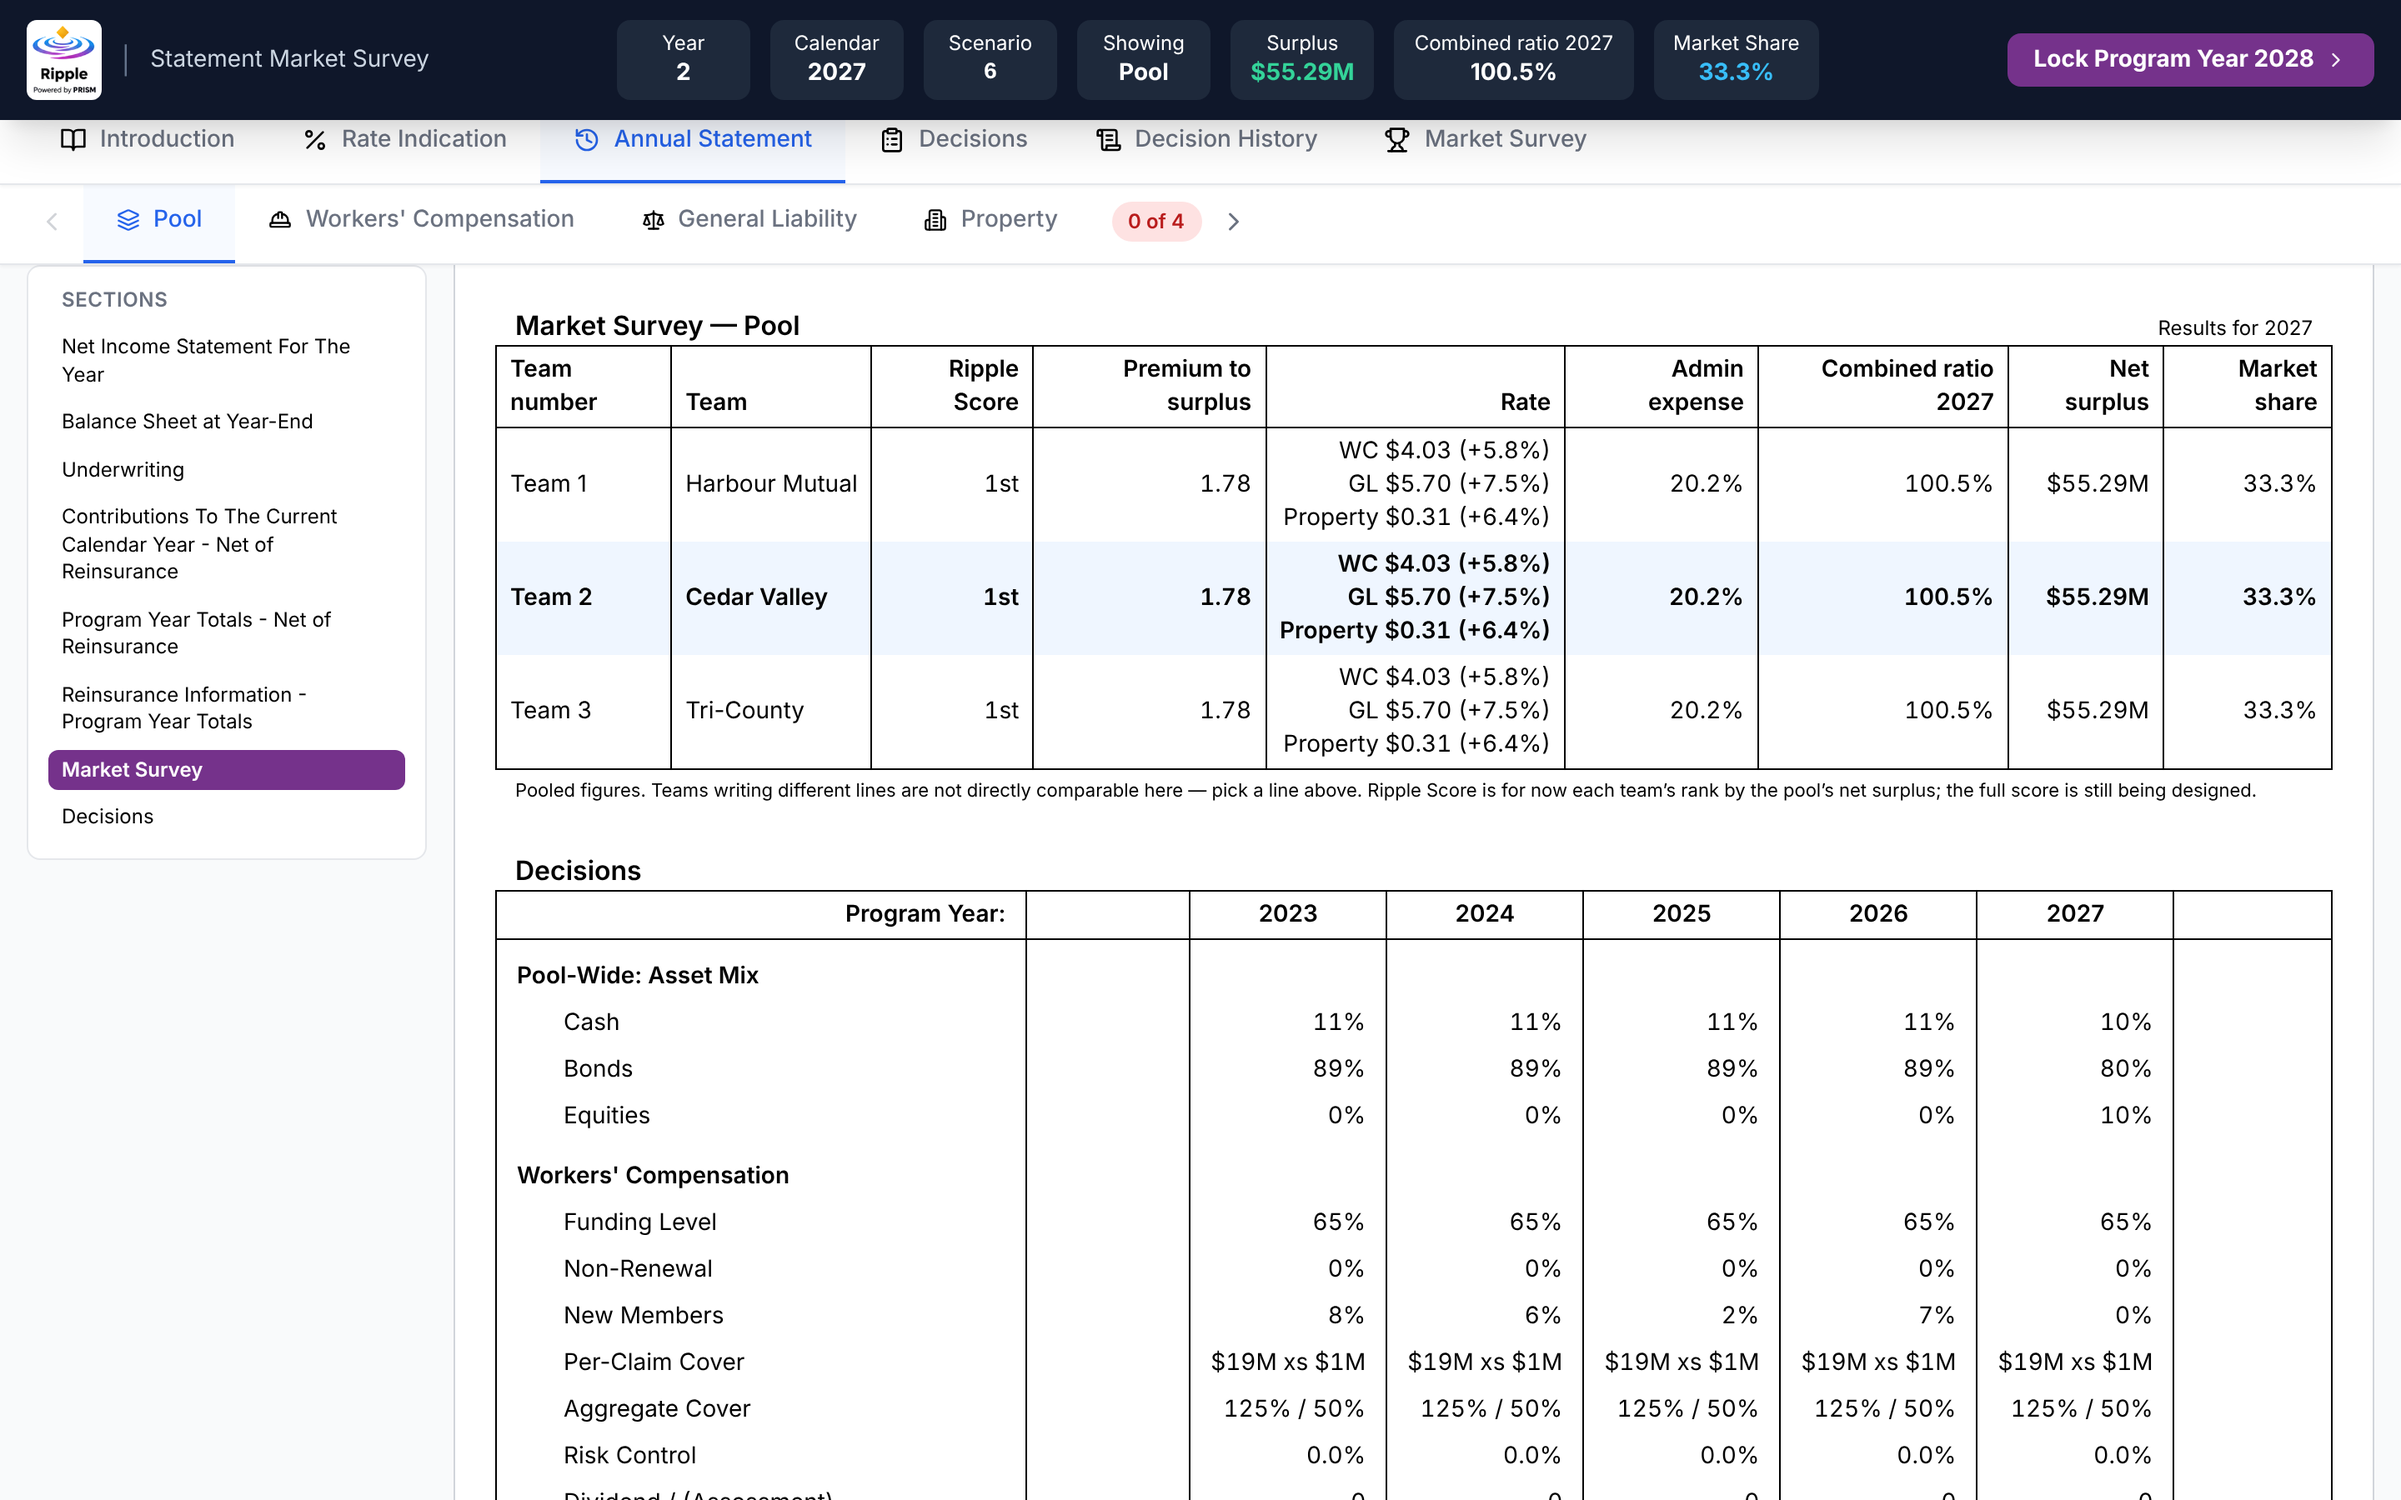
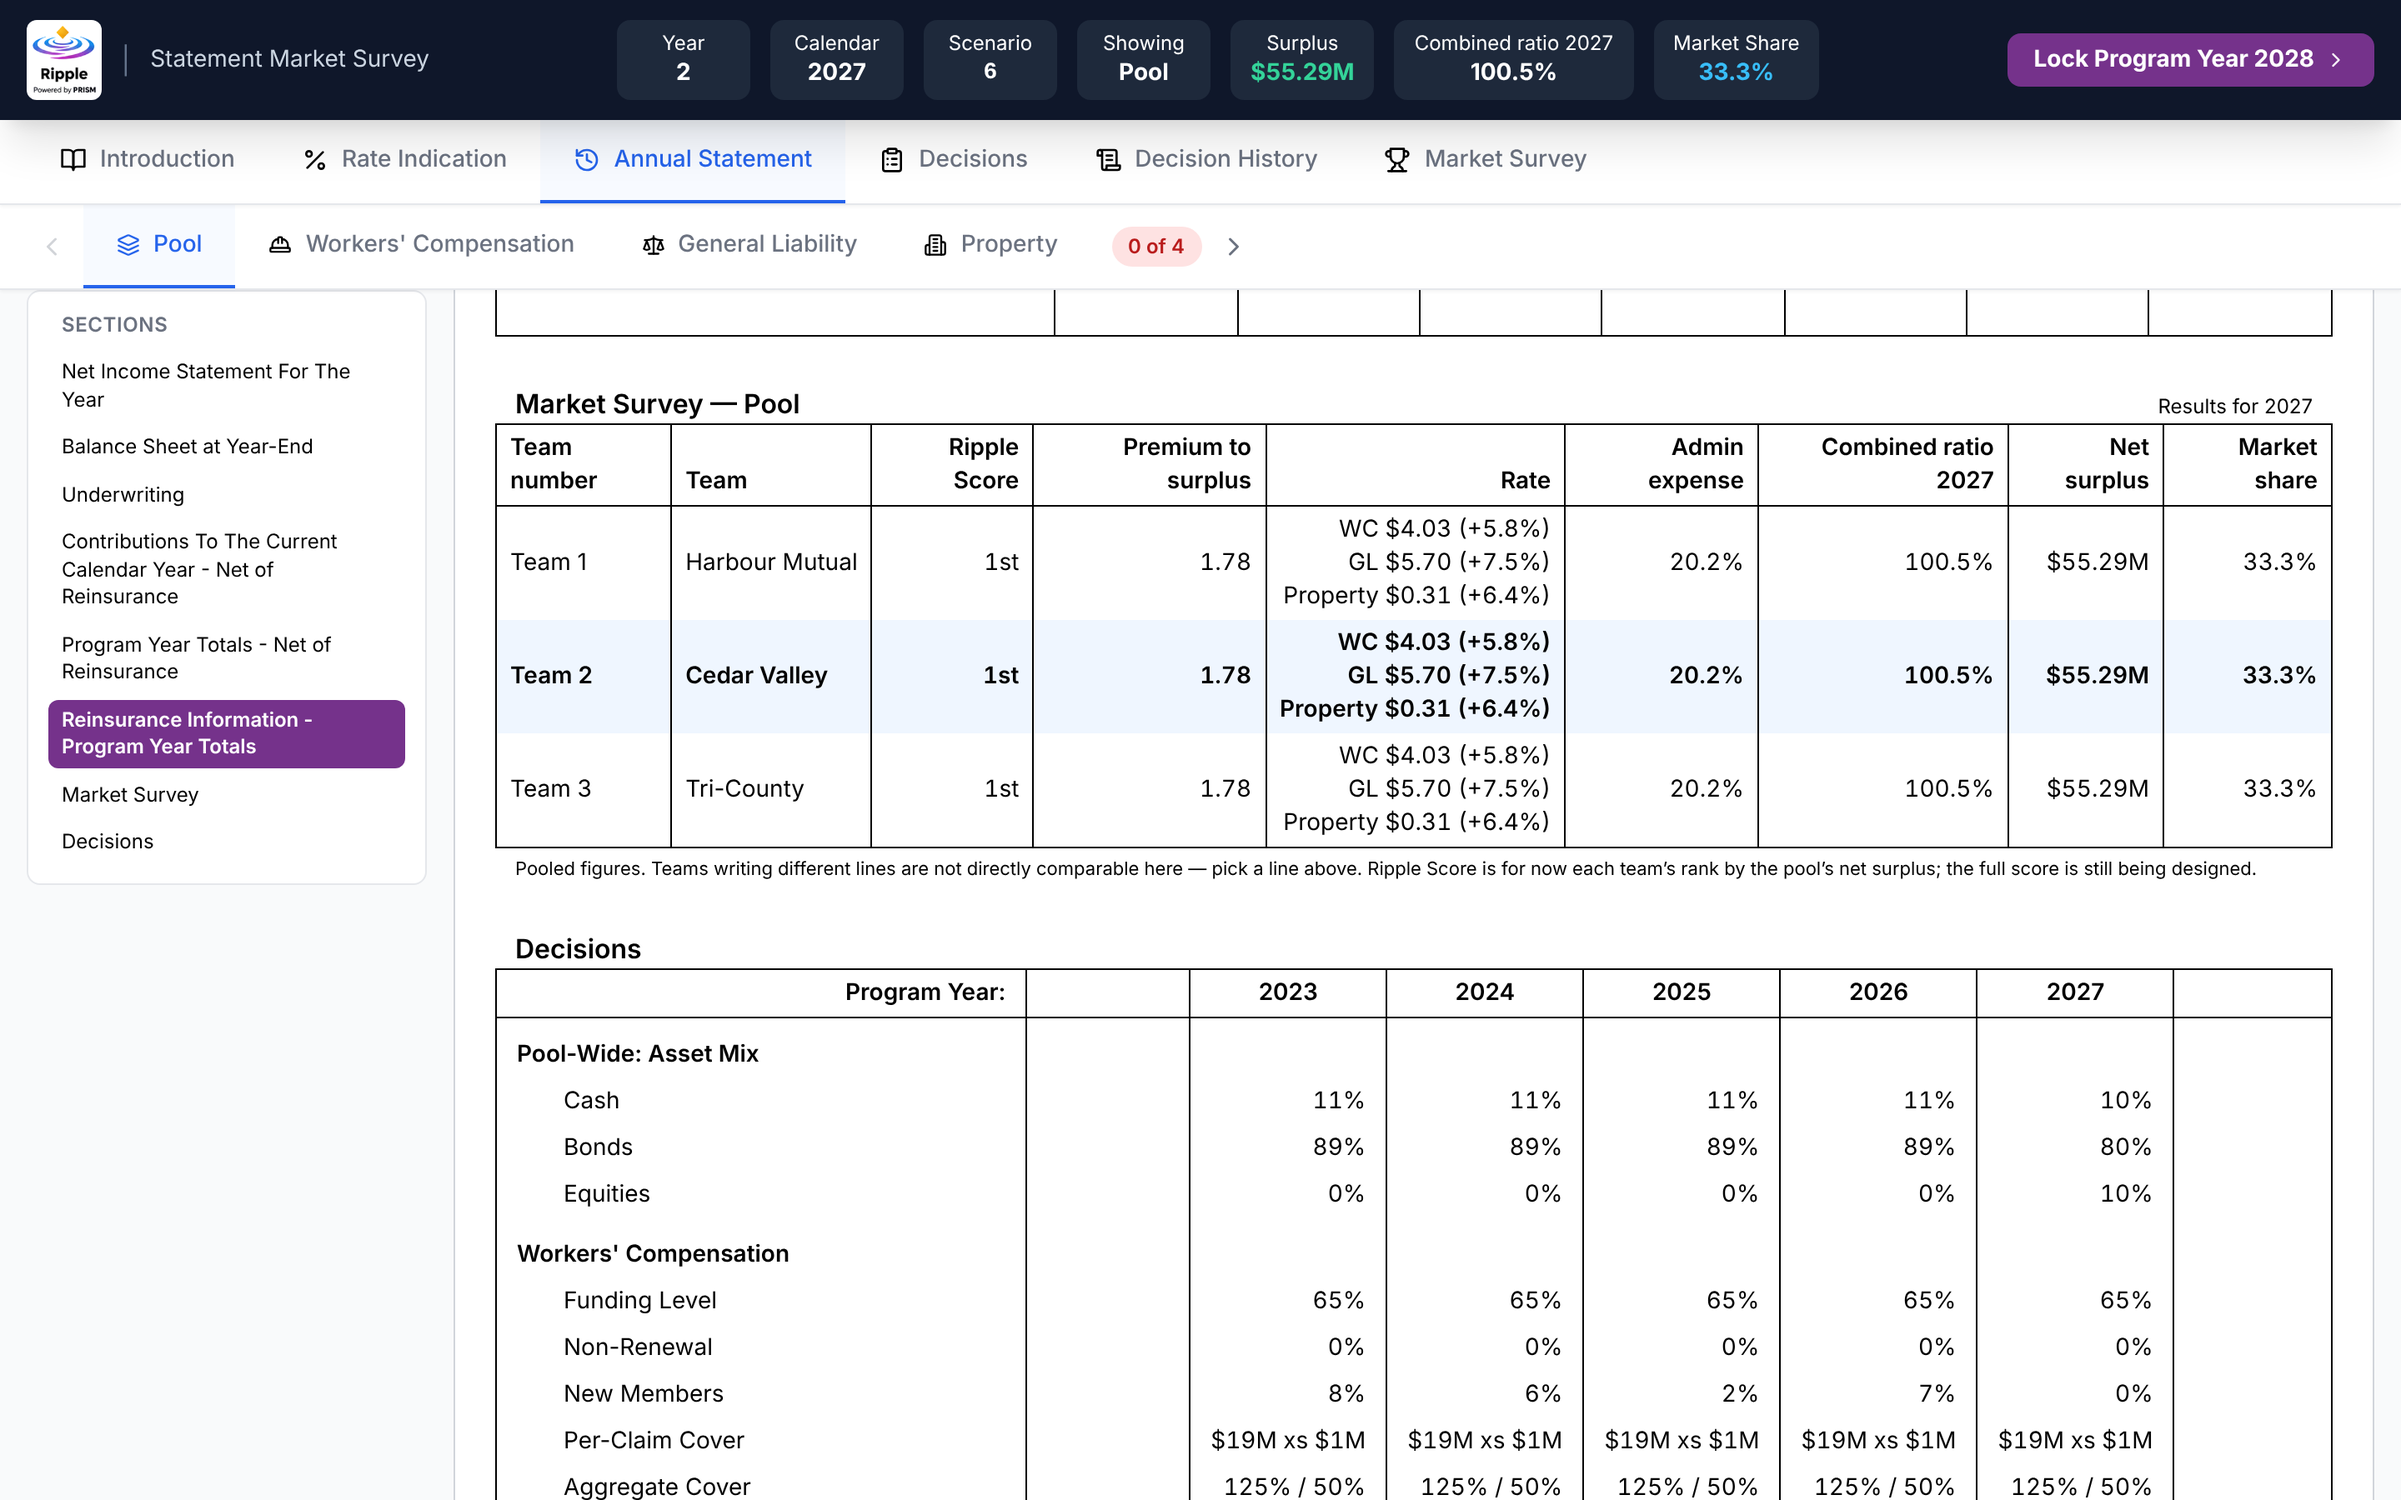
Market Survey section: merged with aws fabff9b (#96, the top bar); render note updated, screenshots retaken on the merged build
aws fabff9b reproduces RENDER_IDENTITY_v134 and the merged tree v136; the
export guard (v132) and value identity hold; FAST 98/98; market-survey
206/206, annual-statement 33/33, downloads 55/55 on the merged build.

Claude-Session: https://claude.ai/code/session_01VMrLqpEBTHUf5CMsbo4smM

diff --git a/scripts/tools/render-identity-check.ts b/scripts/tools/render-identity-check.ts
@@ -1886,8 +1886,10 @@ const BASELINE = process.env.RENDER_BASELINE
 // moves (the save key v52 -> v53 on the Year Walkthrough) are already in v133,
 // so none shows here. No key added or removed.
 // v136: THE ANNUAL STATEMENT'S MARKET SURVEY SECTION (pr/statement-market-
-// survey, from aws ee29d9f; numbered past v135, left for pr/top-bar-logo-size,
-// #96, open). aws ee29d9f reproduced v134 174 of 174 here first. 26 of 174
+// survey, from aws ee29d9f, merged with aws fabff9b (#96, the top bar); numbered
+// past v135, which was left for #96 while it was open — it merged needing none).
+// aws ee29d9f and aws fabff9b each reproduced v134 174 of 174 here first, and
+// the merged tree reproduces v136. 26 of 174
 // keys move — every Annual Statement screen, each word-diffed against the
 // control (RENDER_TEXT_DIR both sides), and each by two insertions and nothing
 // else: the sticky index's "Market Survey" entry, before Decisions; and the
